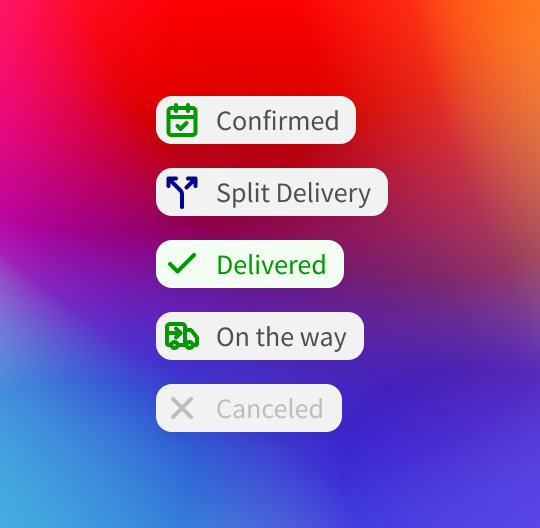
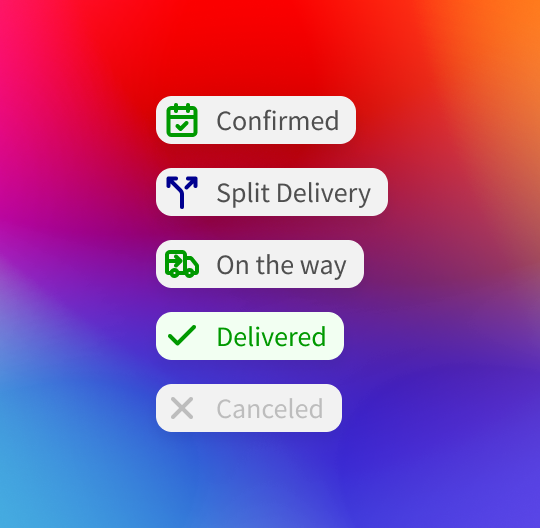
Update KnaufOrderOverview component with revised content for CaseHighlight sections, enhancing clarity and user engagement. Replace outdated descriptions with concise summaries of features, and update the order status image to improve visual representation.

Changed region(s): [[0.2963, 0.5758, 0.6815, 0.697], [0.2963, 0.4545, 0.6815, 0.5455]]

diff --git a/src/components/Pages/Portfolio/KnaufOrderOverview.js b/src/components/Pages/Portfolio/KnaufOrderOverview.js
@@ -188,10 +188,7 @@ We built a guided import flow that parses items and matches them to Knauf’s pr
         <CaseSubline subline="Highlights" />
         <CaseHighlight
           headline="All Knauf entities in one view"
-          copy="Every customer has very different needs in monitoring their orders &
-          deliveries. A one-size-fits-all solution was not going to be useful to
-          any customer. So we gave our customers the ability to choose what they
-          want to see, and in which order."
+          copy="Think 10+ Knauf entities with their own contact... I created a single source-of-truth order table that consolidates all delivery information, replacing what used to require several calls or systems. Now dealers can see everything at a glance."
           imgURL="/img/portfolio/knauf-order-overview/closeup-knauf-brands.png"
           direction="LTR"
         />
@@ -199,17 +196,14 @@ We built a guided import flow that parses items and matches them to Knauf’s pr
           headline="Customizable columns"
           copy="Every customer has very different needs in monitoring their orders &
           deliveries. A one-size-fits-all solution was not going to be useful to
-          any customer. So we gave our customers the ability to choose what they
+          any customer. So I gave our customers the ability to choose what they
           want to see, and in which order."
           imgURL="/img/portfolio/knauf-order-overview/closeup-table-personalization.png"
           direction="RTL"
         />
         <CaseHighlight
           headline="Simplified visual status"
-          copy="Every customer has very different needs in monitoring their orders &
-          deliveries. A one-size-fits-all solution was not going to be useful to
-          any customer. So we gave our customers the ability to choose what they
-          want to see, and in which order."
+          copy="The delivery states for every Knauf entity where completely different, and even worse, the states of an order could change quickly. I standardized the delivery states for all entities; color-coded and icon-coded for a quick grasp of the status quo."
           imgURL="/img/portfolio/knauf-order-overview/closeup-order-status.png"
           direction="LTR"
         />
@@ -240,19 +234,13 @@ We built a guided import flow that parses items and matches them to Knauf’s pr
         <CaseSubline subline="Highlights" />
         <CaseHighlight
           headline="Visual timeline of the week"
-          copy="Every customer has very different needs in monitoring their orders &
-          deliveries. A one-size-fits-all solution was not going to be useful to
-          any customer. So we gave our customers the ability to choose what they
-          want to see, and in which order."
+          copy="Although tables are a great structured, and searchable view on orders, essentially orders and deliveries are about time. This calendar view now a birds-eye view on the day or whole week."
           imgURL="/img/portfolio/knauf-order-overview/closeup-calendar-view.png"
           direction="LTR"
         />
         <CaseHighlight
           headline="Easy day planning for warehouse teams"
-          copy="Every customer has very different needs in monitoring their orders &
-          deliveries. A one-size-fits-all solution was not going to be useful to
-          any customer. So we gave our customers the ability to choose what they
-          want to see, and in which order."
+          copy="Displaying deliveries like calendar events, helps customers manage their own fleet, their warehouses, and their logistics more precisely. Without having to click through several orders, or even worse - calling the customer services."
           imgURL="/img/portfolio/knauf-order-overview/closeup-calendar-planning.png"
           direction="RTL"
         />
@@ -277,21 +265,15 @@ We built a guided import flow that parses items and matches them to Knauf’s pr
         <CaseCopy copy="Personalized update preferences." />
         <CaseSubline subline="Highlights" />
         <CaseHighlight
-          headline="Email, app, or SMS alerts"
-          copy="Every customer has very different needs in monitoring their orders &
-          deliveries. A one-size-fits-all solution was not going to be useful to
-          any customer. So we gave our customers the ability to choose what they
-          want to see, and in which order."
-          imgURL="/img/portfolio/knauf-order-overview/closeup-notifications-channels.png"
+          headline="Choose events to be notified about"
+          copy="In numerous customer interviews we've learned that each and every customer has very different preferences on what they want to receive notifications on. I've therefore designed a notification center that gives the user maximum customization."
+          imgURL="/img/portfolio/knauf-order-overview/closeup-notifications-options.png"
           direction="LTR"
         />
         <CaseHighlight
-          headline="Choose events to be notified about"
-          copy="Every customer has very different needs in monitoring their orders &
-          deliveries. A one-size-fits-all solution was not going to be useful to
-          any customer. So we gave our customers the ability to choose what they
-          want to see, and in which order."
-          imgURL="/img/portfolio/knauf-order-overview/closeup-notifications-options.png"
+          headline="Email, app, or SMS alerts"
+          copy="Not only the events, but also the channel differed. Not only from customer to customer. But a single customer might need one important event notification to be sent immediately via text, while the rest can be delivered by email."
+          imgURL="/img/portfolio/knauf-order-overview/closeup-notifications-channels.png"
           direction="RTL"
         />
 
